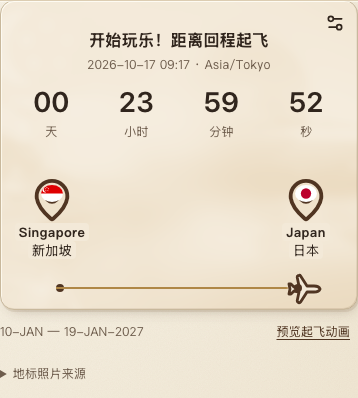
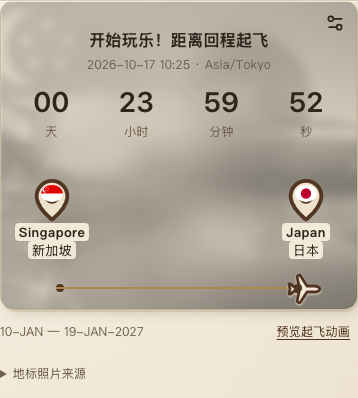
Use 50 percent multiply for flight scenery

diff --git a/src/components/FlightCountdown.module.css b/src/components/FlightCountdown.module.css
@@ -1,6 +1,6 @@
 .module { margin: 0 0 var(--space-2); width: 100%; min-width: 0; }
 .card { position: relative; isolation: isolate; min-height: 310px; overflow: hidden; border-radius: var(--radius-md); border: 1px solid var(--color-border); background: var(--color-surface-subtle); box-shadow: var(--shadow-card); color: var(--color-text); }
-.scenery { position: absolute; inset: -8px; z-index: -1; pointer-events: none; filter: grayscale(1) blur(4px); opacity: .8; mix-blend-mode: soft-light; }
+.scenery { position: absolute; inset: -8px; z-index: -1; pointer-events: none; filter: grayscale(1) blur(4px); opacity: .5; mix-blend-mode: multiply; }
 .leftImage, .rightImage { position: absolute; top: 0; bottom: 0; width: 64%; overflow: hidden; }
 .leftImage { left: 0; z-index: 1; -webkit-mask-image: linear-gradient(to right, black 56.25%, transparent); mask-image: linear-gradient(to right, black 56.25%, transparent); }
 .rightImage { right: 0; }

diff --git a/docs/flight-countdown/README.md b/docs/flight-countdown/README.md
@@ -41,4 +41,4 @@
 韩国固定地标采用景福宫（规格中的首尔塔为建议项）。首尔塔候选照片带建筑版权限制或主体不清晰；景福宫采用有明确 CC0 许可的实景，仍保持每国一图。
 
 ## 背景柔光调整（2026-10-16）
-按用户后续要求，整个背景合成层使用 grayscale(1)、opacity: .8、mix-blend-mode: soft-light，并整体 blur(4px)。模糊百分比不是 CSS 标准值，4px 作为所述 20% 的轻度模糊解释；保留中心融合。Pin、正文和飞机不参与滤镜。只改本模块背景 CSS，未改数据或动画。
+按用户后续要求，整个背景合成层使用 grayscale(1)、opacity: .5、mix-blend-mode: multiply，并整体 blur(4px)。模糊百分比不是 CSS 标准值，4px 作为所述 20% 的轻度模糊解释；保留中心融合。Pin、正文和飞机不参与滤镜。只改本模块背景 CSS，未改数据或动画。
